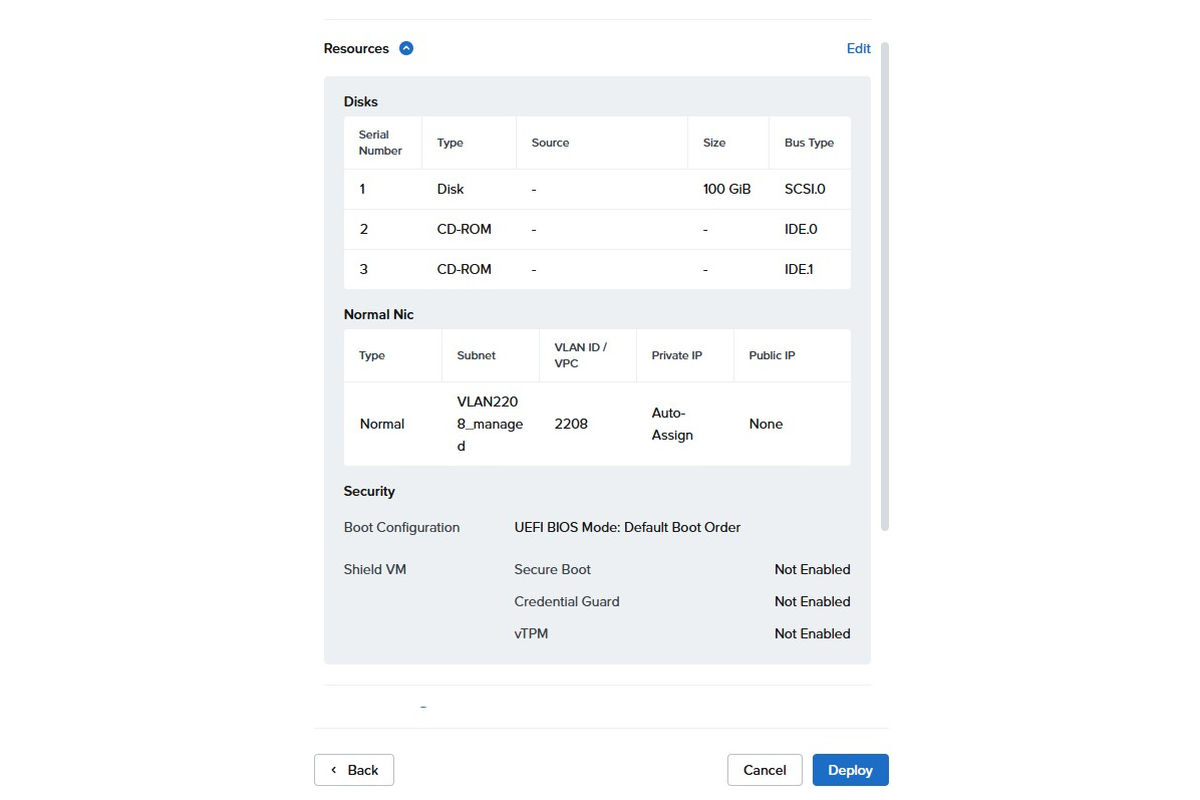
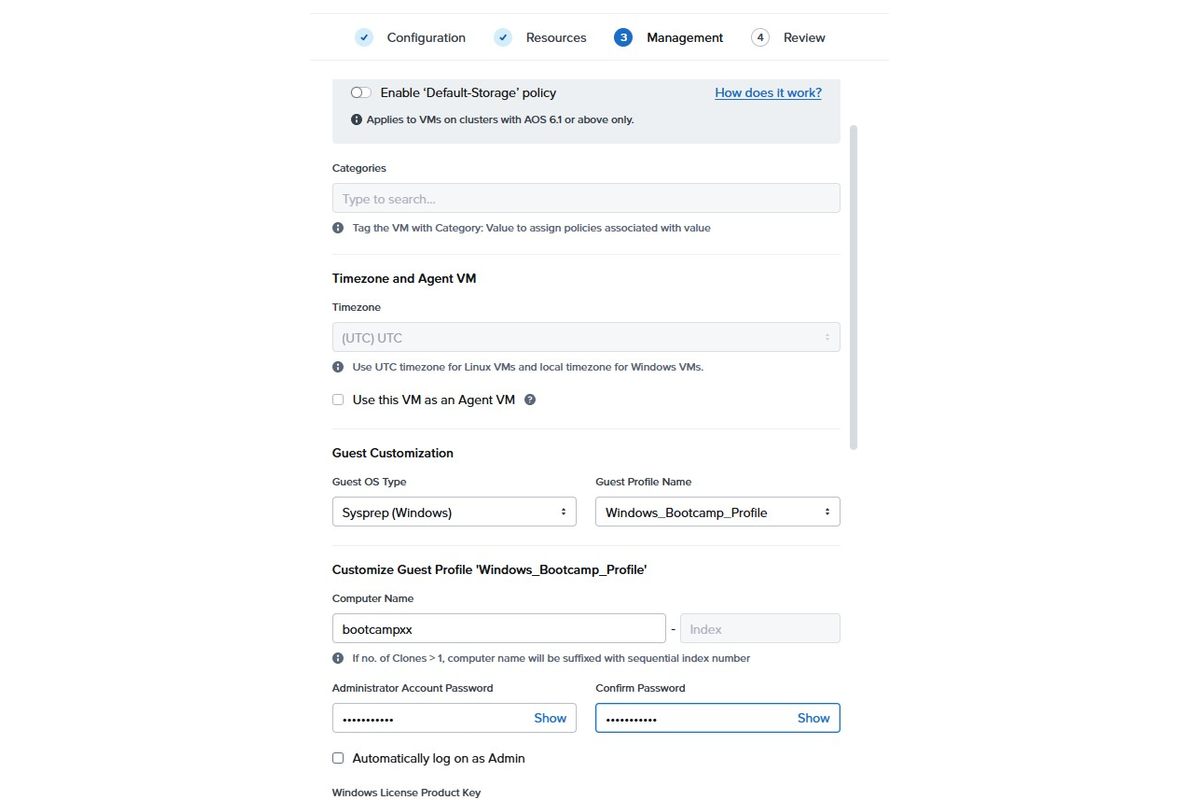
Lab 3: add VM configuration step and renumber following steps

diff --git a/README.md b/README.md
@@ -5,7 +5,7 @@
 **Hands-on Labs rund um Nutanix AHV, Prism und die Migration von VMware mit Nutanix Move**
 
 ![Labs](https://img.shields.io/badge/Labs-7-0869B2?style=for-the-badge)
-![Schritte](https://img.shields.io/badge/Schritte-58-024DA1?style=for-the-badge)
+![Schritte](https://img.shields.io/badge/Schritte-59-024DA1?style=for-the-badge)
 ![Sprache](https://img.shields.io/badge/Sprache-Deutsch-6C757D?style=for-the-badge)
 ![Plattform](https://img.shields.io/badge/Plattform-Nutanix%20AHV-7855FA?style=for-the-badge)
 
@@ -37,7 +37,7 @@ flowchart LR
 |:-:|---|---|:-:|
 | <img src="labs/images/Lab1_Prism_Element/step_02.png" width="180"> | **[Lab 1 – Prism Element erkunden](labs/Lab1_Prism_Element.md)** | Login am Cluster, Hardware-, Storage- und Netzwerk-Diagramme, Health-Übersicht | 7 |
 | <img src="labs/images/Lab2_Prism_Central/step_02.png" width="180"> | **[Lab 2 – Prism Central](labs/Lab2_Prism_Central.md)** | Dashboard, VMs, Images, Storage Container, Netzwerke, Security, Protection Policies, IAM | 14 |
-| <img src="labs/images/Lab3_Windows_VM/step_03.png" width="180"> | **[Lab 3 – Windows VM Bereitstellung](labs/Lab3_Windows_VM.md)** | Deployment aus einem Template mit Sysprep-Gastanpassung | 5 |
+| <img src="labs/images/Lab3_Windows_VM/step_04.png" width="180"> | **[Lab 3 – Windows VM Bereitstellung](labs/Lab3_Windows_VM.md)** | Deployment aus einem Template mit Sysprep-Gastanpassung | 6 |
 | <img src="labs/images/Lab4_Linux_VM/step_05.png" width="180"> | **[Lab 4 – Linux VM Bereitstellung](labs/Lab4_Linux_VM.md)** | RHEL 10 aus einem Template mit cloud-init, optional SSH-Login | 8 |
 | <img src="labs/images/Lab5_vCenter/step_01.png" width="180"> | **[Lab 5 – vCenter erkunden](labs/Lab5_vCenter.md)** | Bestehende vSphere-Umgebung ansehen, eigene VMs und IP-Adressen notieren | 1 |
 | <img src="labs/images/Lab6_Nutanix_Move_Setup/step_12.png" width="180"> | **[Lab 6 – Nutanix Move: Initiales Setup](labs/Lab6_Nutanix_Move_Setup.md)** | Migration Plan anlegen: Source/Target, VM-Auswahl, Netzwerk-Mapping, VM-Vorbereitung | 19 |

diff --git a/labs/Lab3_Windows_VM.md b/labs/Lab3_Windows_VM.md
@@ -20,16 +20,22 @@ Wähle "Windows_Template" und klicke "Deploy VMs"
 
 ### Schritt 3
 
-Klicke auf "Advanced Deploy" und wähle Guest OS Customization "Sysprep" und Guest Profile Name "Windows_Bootcamp_Profile"; wähle "Next"
+Klicke auf "Advanced Deploy". Vergib unter "Configuration" einen Namen für die VM (z.B. "WindowsServer" + deine zweistellige Bootcamp-Nummer) und belasse die übrigen Einstellungen. Klicke auf "Next"
 
-![Schritt 3: Klicke auf "Advanced Deploy" und wähle Guest OS Customization "Sysprep" und Guest Profile Name "Windows_Bootcamp_Profile"; wähle "Next"](images/Lab3_Windows_VM/step_03.png)
+![Schritt 3: Klicke auf "Advanced Deploy". Vergib unter "Configuration" einen Namen für die VM (z.B. "WindowsServer" + deine zweistellige Bootcamp-Nummer) und belasse die übrigen Einstellungen. Klicke auf "Next"](images/Lab3_Windows_VM/step_03.png)
 
 ### Schritt 4
 
-Klicke anschließend auf "Deploy"
+Belasse unter "Resources" die Standardeinstellungen. Wähle unter "Management" bei Guest Customization den Guest OS Type "Sysprep" und Guest Profile Name "Windows_Bootcamp_Profile"; wähle "Next"
 
-![Schritt 4: Klicke anschließend auf "Deploy"](images/Lab3_Windows_VM/step_04.png)
+![Schritt 4: Belasse unter "Resources" die Standardeinstellungen. Wähle unter "Management" bei Guest Customization den Guest OS Type "Sysprep" und Guest Profile Name "Windows_Bootcamp_Profile"; wähle "Next"](images/Lab3_Windows_VM/step_04.png)
 
 ### Schritt 5
+
+Klicke anschließend auf "Deploy"
+
+![Schritt 5: Klicke anschließend auf "Deploy"](images/Lab3_Windows_VM/step_05.png)
+
+### Schritt 6
 
 Wähle die VM aus und starte diese mit Rechtsklick "Power Operations" --> "Power On"
